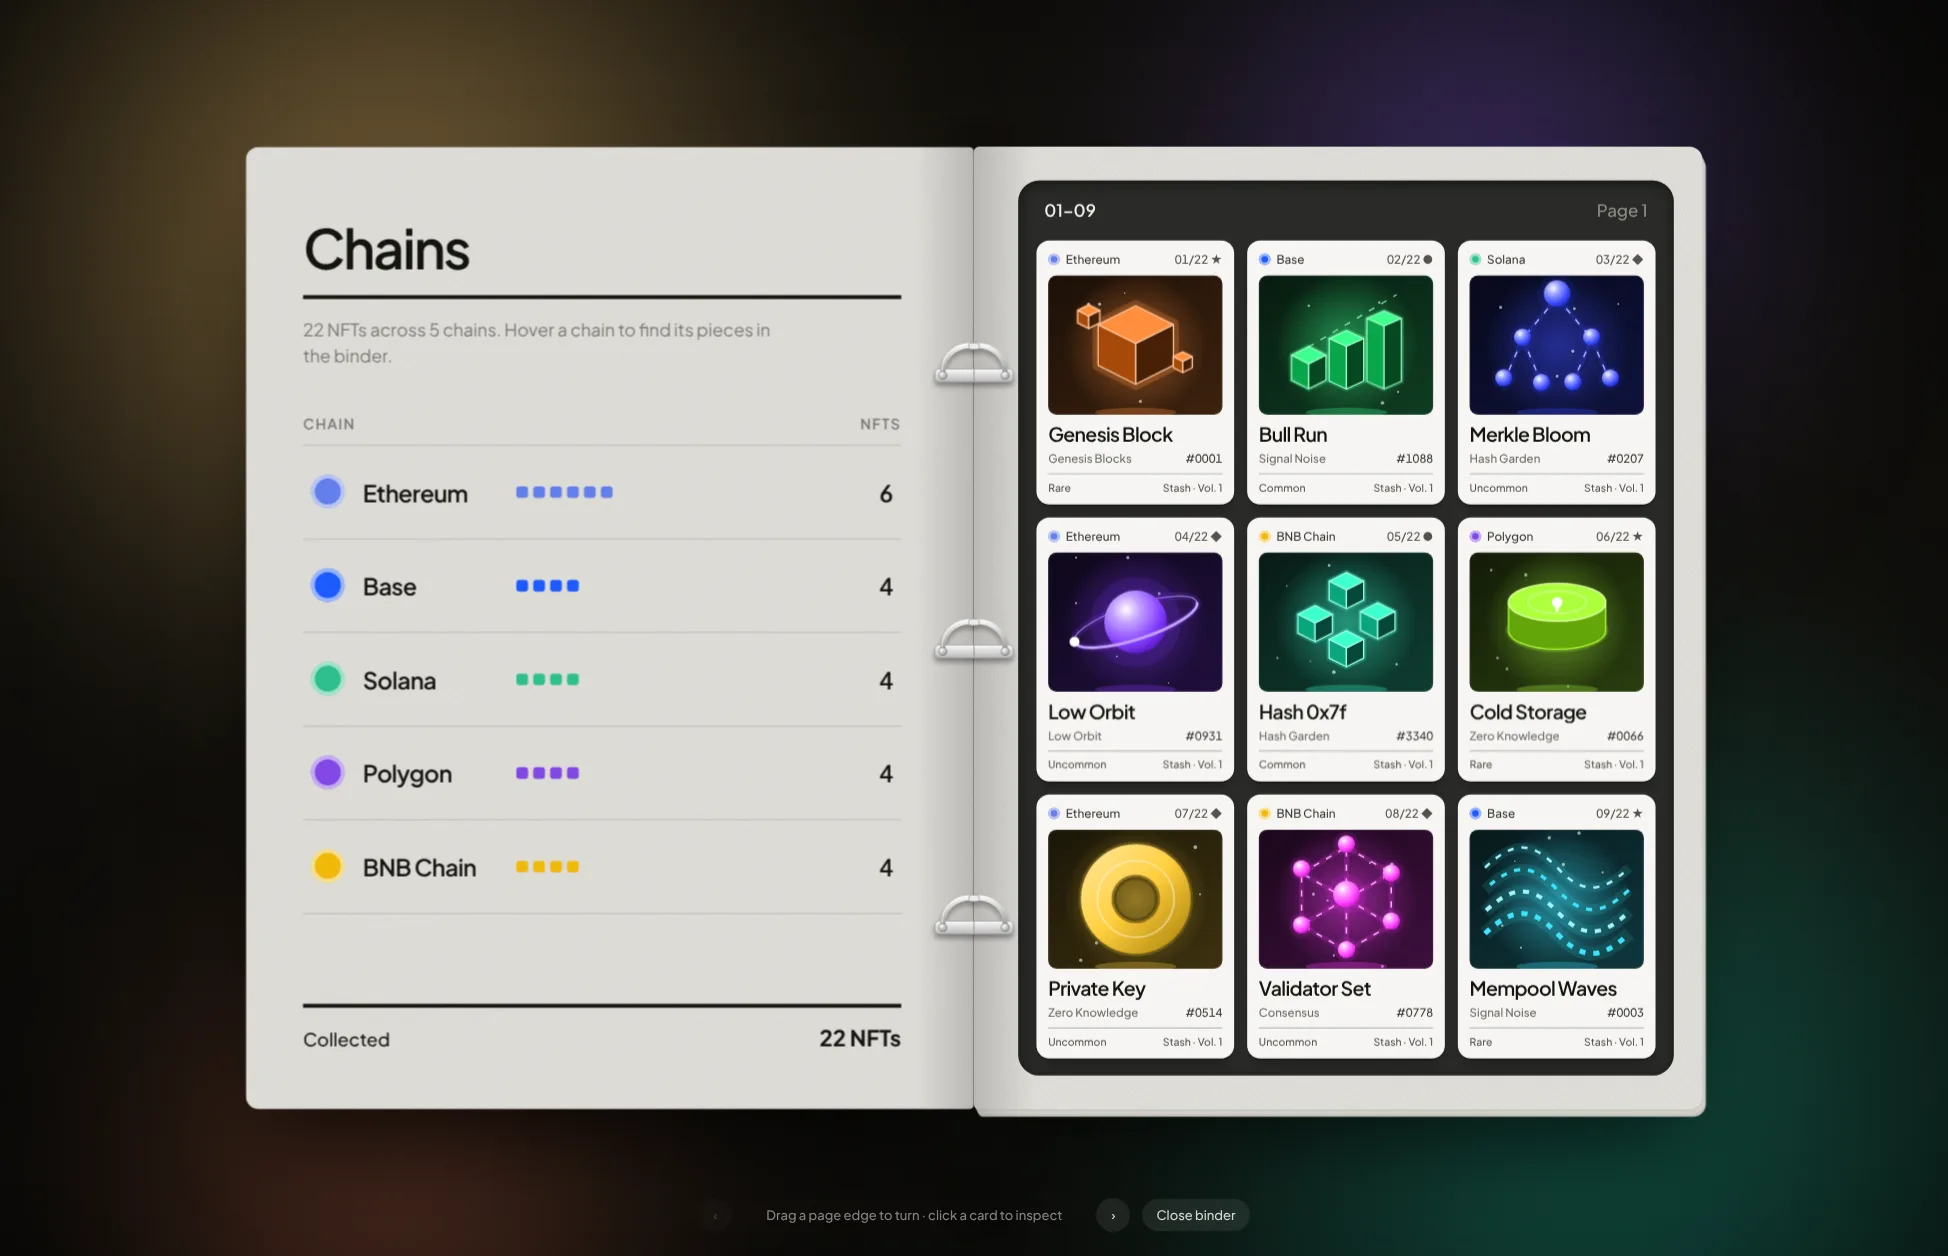
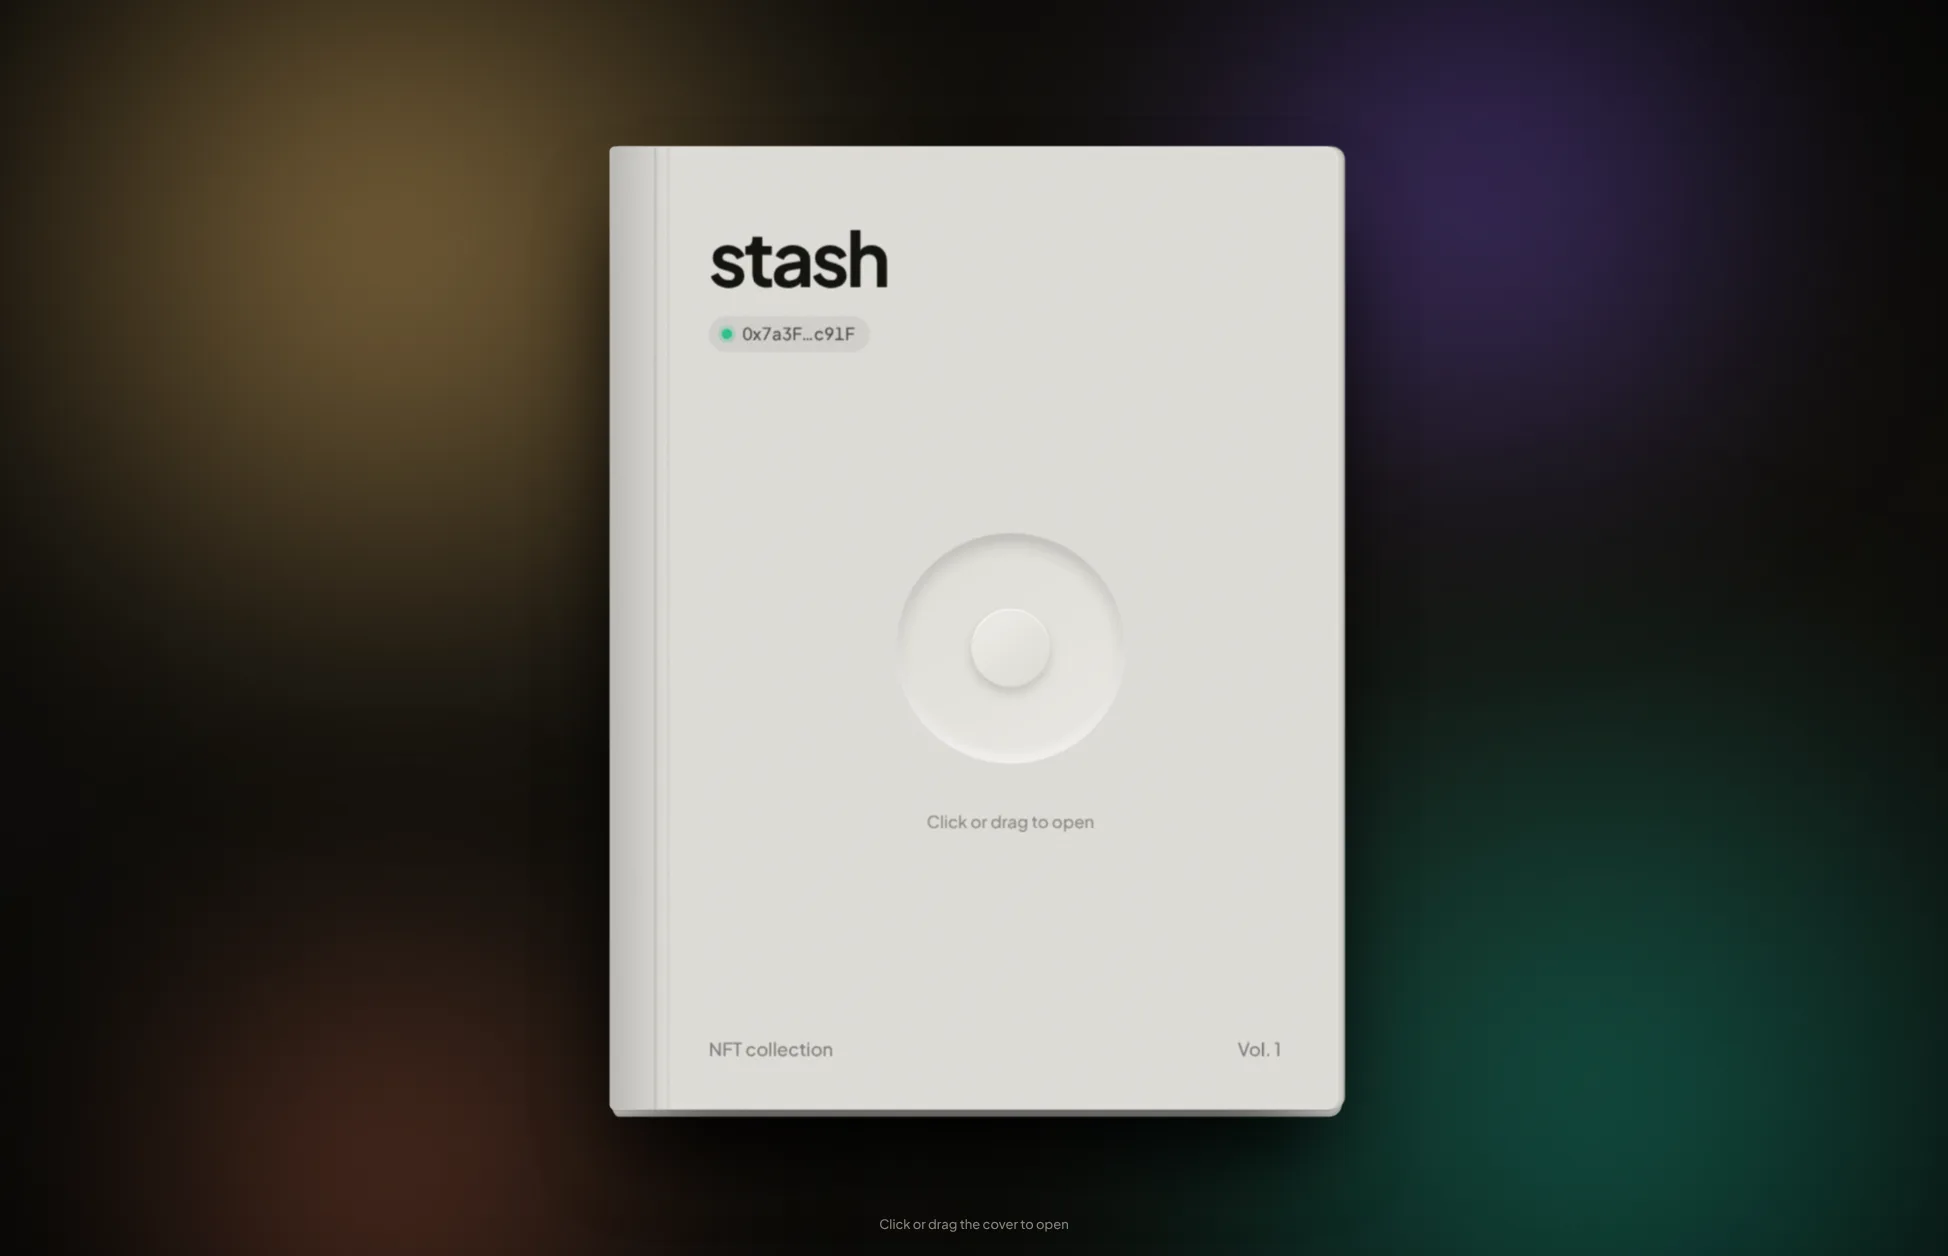
Stash: remove Close binder button, use closed binder as cover
Claude-Session: https://claude.ai/code/session_017dNQ4MTYR2EmmKbr7auaVY

diff --git a/public/fun/stash/index.html b/public/fun/stash/index.html
@@ -313,7 +313,6 @@ dd i{width:12px;height:12px;border-radius:50%}
   <button class="nav" id="prev" aria-label="Previous page" hidden>‹</button>
   <span id="hintText">Click or drag the cover to open</span>
   <button class="nav" id="next" aria-label="Next page" hidden>›</button>
-  <button class="pill" id="closeBook" hidden>Close binder</button>
 </div>
 
 <div class="modal" id="modal" aria-hidden="true">
@@ -664,14 +663,14 @@ edgeL.addEventListener('pointerdown', e => { const s = leftSheet();  if (e.butto
   el.addEventListener('keydown', e => { if (e.key === 'Enter' || e.key === ' '){ e.preventDefault(); fn(); } }));
 
 /* Buttons + hint bar */
-const hintText = $('#hintText'), closeBtn = $('#closeBook'), prevBtn = $('#prev'), nextBtn = $('#next');
+const hintText = $('#hintText'), prevBtn = $('#prev'), nextBtn = $('#next');
 function updateUI(){
   book.dataset.s = state;
   const empty = CAPACITY - TOTAL;
   hintText.textContent = state === 0 ? 'Click or drag the cover to open'
     : state === 1 ? 'Drag a page edge to turn · click a card to inspect'
     : `Pages 2–3 · ${empty} empty slots · drag an edge to turn back`;
-  prevBtn.hidden = nextBtn.hidden = closeBtn.hidden = state === 0;
+  prevBtn.hidden = nextBtn.hidden = state === 0;
   prevBtn.disabled = state <= 1;
   nextBtn.disabled = state >= 2;
   edgeR.hidden = !(S.cover.rest === 180 && S.leaf.rest === 0);
@@ -679,7 +678,6 @@ function updateUI(){
 }
 nextBtn.addEventListener('click', () => go(state + 1));
 prevBtn.addEventListener('click', () => go(Math.max(1, state - 1)));
-closeBtn.addEventListener('click', () => { if (current) closeCard(true); setFilter(null); go(0); });
 
 /* ---------- Popup (card grows from its own position) ---------- */
 const modal = $('#modal'), big = $('#big'), info = $('#info');
